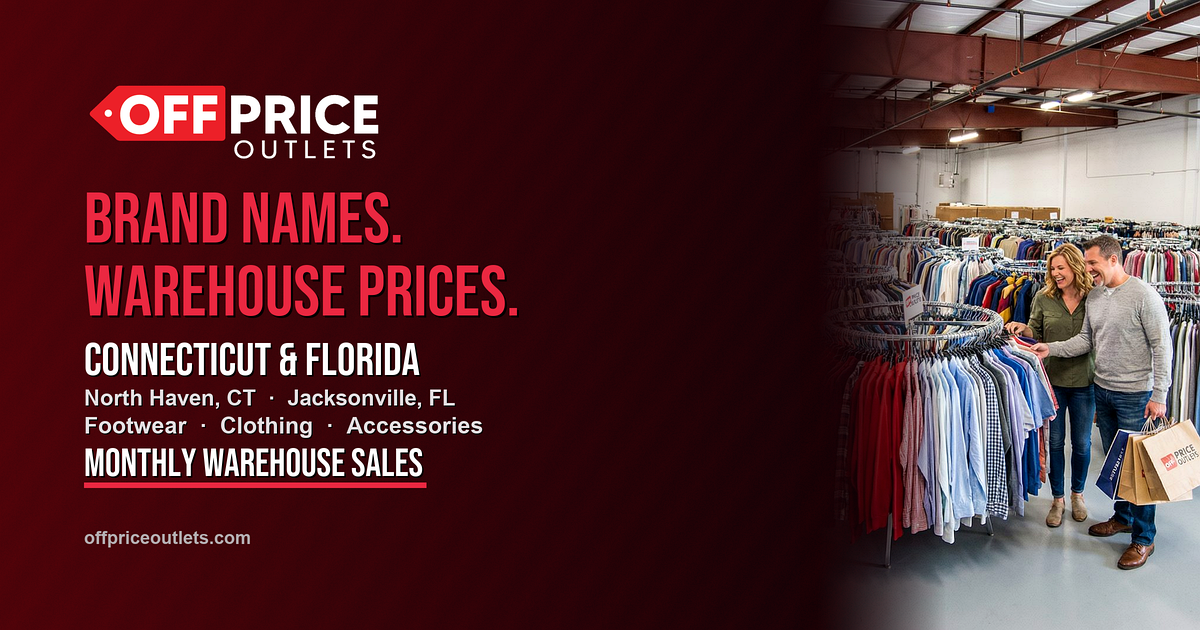
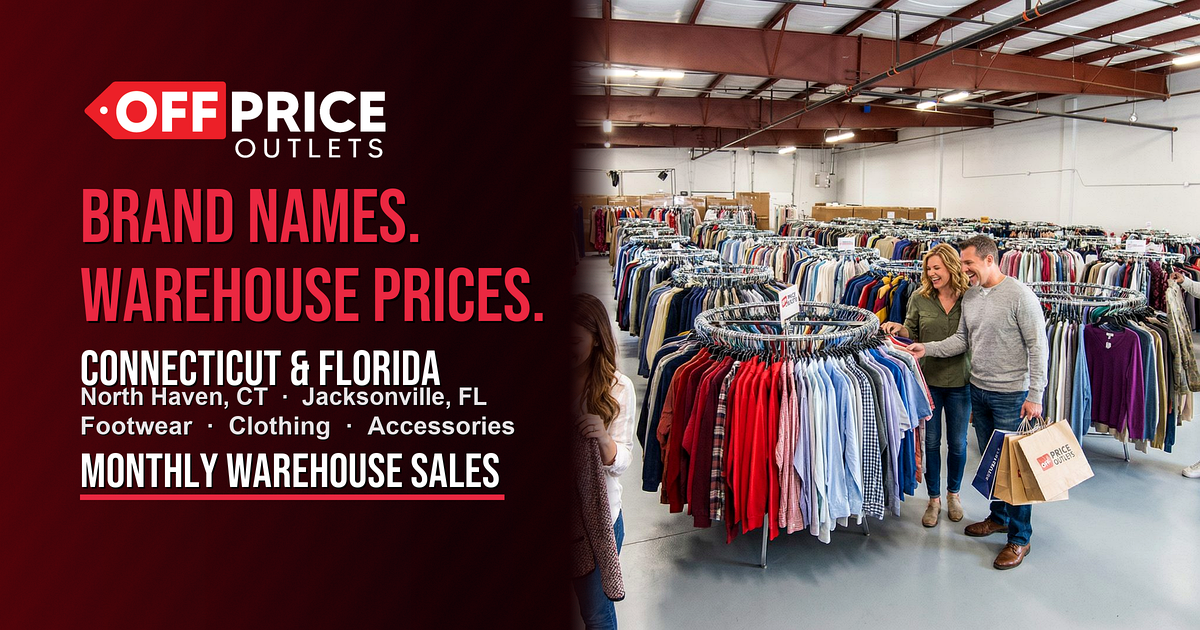
Tighten OG fade to text edge and enlarge bottom CTA line.
Drop URL from artwork, narrow feather, ~53% clear photo, cache v84.

diff --git a/index.html b/index.html
@@ -21,8 +21,8 @@
     <meta property="og:url" content="https://offpriceoutlets.com/">
     <meta property="og:title" content="Off Price Outlets | Connecticut &amp; Florida Monthly Warehouse Sales">
     <meta property="og:description" content="Two locations: North Haven, CT and Jacksonville, FL. FL grand opening Oct 10–11 · 10 AM–4 PM. Brand-name clothing, footwear &amp; accessories at warehouse prices.">
-    <meta property="og:image" content="https://offpriceoutlets.com/images/og-image.jpg?v=83">
-    <meta property="og:image:secure_url" content="https://offpriceoutlets.com/images/og-image.jpg?v=83">
+    <meta property="og:image" content="https://offpriceoutlets.com/images/og-image.jpg?v=84">
+    <meta property="og:image:secure_url" content="https://offpriceoutlets.com/images/og-image.jpg?v=84">
     <meta property="og:image:type" content="image/jpeg">
     <meta property="og:image:width" content="1200">
     <meta property="og:image:height" content="630">
@@ -32,7 +32,7 @@
     <meta name="twitter:card" content="summary_large_image">
     <meta name="twitter:title" content="Off Price Outlets | Connecticut &amp; Florida Monthly Warehouse Sales">
     <meta name="twitter:description" content="Two locations: North Haven, CT and Jacksonville, FL. FL grand opening Oct 10–11 · 10 AM–4 PM.">
-    <meta name="twitter:image" content="https://offpriceoutlets.com/images/og-image.jpg?v=83">
+    <meta name="twitter:image" content="https://offpriceoutlets.com/images/og-image.jpg?v=84">
 
     <link rel="icon" href="images/favicon.svg?v=68" type="image/svg+xml">
     <link rel="icon" href="images/favicon-32.png?v=68" type="image/png" sizes="32x32">
@@ -57,7 +57,7 @@
           "name": "Off Price Outlets",
           "url": "https://offpriceoutlets.com/",
           "logo": "https://offpriceoutlets.com/images/logo-official.png",
-          "image": "https://offpriceoutlets.com/images/og-image.jpg?v=83",
+          "image": "https://offpriceoutlets.com/images/og-image.jpg?v=84",
           "description": "Off Price Outlets hosts monthly warehouse sales with brand-name men's and women's clothing, footwear, and accessories at warehouse prices—often up to 90% off retail. Locations in North Haven, Connecticut and Jacksonville, Florida.",
           "sameAs": [
             "https://www.instagram.com/offpriceoutletsct/",
@@ -72,7 +72,7 @@
           "name": "Off Price Outlets — North Haven",
           "parentOrganization": { "@id": "https://offpriceoutlets.com/#organization" },
           "url": "https://offpriceoutlets.com/#locations",
-          "image": "https://offpriceoutlets.com/images/og-image.jpg?v=83",
+          "image": "https://offpriceoutlets.com/images/og-image.jpg?v=84",
           "description": "Monthly warehouse sales in North Haven, Connecticut on select dates—not every weekend. Brand-name clothing, footwear, and accessories at warehouse prices.",
           "address": {
             "@type": "PostalAddress",
@@ -96,7 +96,7 @@
           "name": "Off Price Outlets — Jacksonville",
           "parentOrganization": { "@id": "https://offpriceoutlets.com/#organization" },
           "url": "https://offpriceoutlets.com/#locations",
-          "image": "https://offpriceoutlets.com/images/og-image.jpg?v=83",
+          "image": "https://offpriceoutlets.com/images/og-image.jpg?v=84",
           "description": "Off Price Outlets Jacksonville, Florida. Grand opening warehouse sale October 10–11, 2026, 10 AM–4 PM. Brand-name clothing, footwear, and accessories.",
           "address": {
             "@type": "PostalAddress",
@@ -135,7 +135,7 @@
               "addressCountry": "US"
             }
           },
-          "image": "https://offpriceoutlets.com/images/og-image.jpg?v=83",
+          "image": "https://offpriceoutlets.com/images/og-image.jpg?v=84",
           "organizer": { "@id": "https://offpriceoutlets.com/#organization" },
           "offers": {
             "@type": "AggregateOffer",

diff --git a/scripts/generate-og-image.py b/scripts/generate-og-image.py
@@ -12,52 +12,14 @@ BEBAS = Path("/tmp/og-fonts/BebasNeue-Regular.ttf")
 BODY = Path("/System/Library/Fonts/Supplemental/Arial Bold.ttf")
 
 W, H = 2400, 1260
-SAFE = 168
-PHOTO_FRAC = 0.32
+SAFE = 160
+MIN_PHOTO_FRAC = 0.46
+FEATHER_PX = 96
 
 
 def main() -> None:
     if not BEBAS.is_file():
         raise SystemExit(f"Missing font: {BEBAS} (download Bebas Neue to /tmp/og-fonts/)")
-
-    text_right = int(W * (1 - PHOTO_FRAC) - 40)
-    photo_w = int(W * PHOTO_FRAC)
-
-    photo_src = Image.open(ROOT / "images/homepage.jpg").convert("RGB")
-    photo = ImageOps.fit(
-        photo_src, (photo_w, H), method=Image.Resampling.LANCZOS, centering=(0.58, 0.42)
-    )
-    photo = ImageEnhance.Contrast(
-        ImageEnhance.Color(ImageEnhance.Sharpness(photo).enhance(1.12)).enhance(1.05)
-    ).enhance(1.06)
-
-    base = Image.new("RGB", (W, H))
-    px = base.load()
-    rnd = random.Random(7)
-    for y in range(H):
-        for x in range(W):
-            t = x / W
-            r = int(22 + 55 * max(0, 1 - t * 1.4))
-            g = int(1 + 3 * (1 - t))
-            b = int(4 + 6 * (1 - t))
-            streak = int(18 * abs(((x + y * 0.7) % 90) / 90 - 0.5))
-            n = rnd.randint(-6, 6)
-            r = max(0, min(90, r + streak // 2 + n))
-            px[x, y] = (r, max(0, g), max(0, b))
-
-    canvas = base.convert("RGBA")
-    photo_rgba = photo.convert("RGBA")
-    feather = 260
-    mask = Image.new("L", (photo_w, H), 255)
-    md = ImageDraw.Draw(mask)
-    for i in range(feather):
-        md.line([(i, 0), (i, H)], fill=int(255 * (i / feather) ** 1.15))
-    dark = Image.new("RGBA", (photo_w, H), (0, 0, 0, 0))
-    dd = ImageDraw.Draw(dark)
-    for i in range(feather):
-        dd.line([(i, 0), (i, H)], fill=(0, 0, 0, int(130 * (1 - i / feather))))
-    photo_rgba = Image.alpha_composite(photo_rgba, dark)
-    canvas.paste(photo_rgba, (W - photo_w, 0), mask)
 
     logo = Image.open(ROOT / "images/logo-official-white.png").convert("RGBA")
     lp = logo.load()
@@ -66,72 +28,124 @@ def main() -> None:
             r, g, b, a = lp[xx, yy]
             if r < 40 and g < 40 and b < 40:
                 lp[xx, yy] = (0, 0, 0, 0)
-    pad = 16
+    pad = 12
     logo_p = Image.new("RGBA", (logo.width + pad * 2, logo.height + pad * 2), (0, 0, 0, 0))
     logo_p.paste(logo, (pad, pad), logo)
-    logo_w = 600
+    logo_w = 620
     logo_r = logo_p.resize(
         (logo_w, int(logo_p.height * logo_w / logo_p.width)), Image.Resampling.LANCZOS
     )
-    canvas.alpha_composite(logo_r, (SAFE, SAFE - 8))
+
+    meas = ImageDraw.Draw(Image.new("RGB", (W, H)))
+    x = SAFE
+
+    def tw(text: str, font) -> int:
+        bb = meas.textbbox((0, 0), text, font=font)
+        return bb[2] - bb[0]
+
+    def th(font) -> int:
+        bb = meas.textbbox((0, 0), "Ag", font=font)
+        return bb[3] - bb[1]
+
+    hero_size = 152
+    f_hero = ImageFont.truetype(str(BEBAS), hero_size)
+    max_panel = int(W * (1 - MIN_PHOTO_FRAC)) - 24
+    while tw("Warehouse prices.", f_hero) > max_panel - x and hero_size > 118:
+        hero_size -= 2
+        f_hero = ImageFont.truetype(str(BEBAS), hero_size)
+
+    f_loc = ImageFont.truetype(str(BEBAS), 98)
+    if tw("Connecticut & Florida", f_loc) > max_panel - x:
+        f_loc = ImageFont.truetype(str(BEBAS), 90)
+
+    f_cities = ImageFont.truetype(str(BODY), 48)
+    f_cat = ImageFont.truetype(str(BODY), 50)
+    f_cta = ImageFont.truetype(str(BEBAS), 96)
+    cta = "Monthly warehouse sales"
+
+    y = SAFE + logo_r.height + 16
+    blocks: list[tuple[str, object, int, int]] = []
+    blocks.append(("Brand names.", f_hero, 4, hero_size + 6))
+    blocks.append(("Warehouse prices.", f_hero, 4, hero_size + 24))
+    blocks.append(("Connecticut & Florida", f_loc, 3, th(f_loc) + 14))
+    blocks.append(("North Haven, CT  ·  Jacksonville, FL", f_cities, 2, th(f_cities) + 12))
+    blocks.append(("Footwear  ·  Clothing  ·  Accessories", f_cat, 2, th(f_cat) + 18))
+    blocks.append((cta, f_cta, 3, th(f_cta) + 28))
+
+    max_text_x = x + logo_w
+    for text, font, _shadow, advance in blocks:
+        bb = meas.textbbox((x, y), text, font=font)
+        max_text_x = max(max_text_x, bb[2] + 8)
+        y += advance
+
+    split_x = max_text_x + 36
+    min_photo_w = int(W * MIN_PHOTO_FRAC)
+    if W - split_x < min_photo_w:
+        split_x = W - min_photo_w
+
+    photo_w = W - split_x
+    print(f"split_x={split_x} photo_w={photo_w} feather={FEATHER_PX}")
+
+    photo_src = Image.open(ROOT / "images/homepage.jpg").convert("RGB")
+    photo = ImageOps.fit(
+        photo_src, (photo_w, H), method=Image.Resampling.LANCZOS, centering=(0.62, 0.42)
+    )
+    photo = ImageEnhance.Contrast(
+        ImageEnhance.Color(ImageEnhance.Sharpness(photo).enhance(1.1)).enhance(1.04)
+    ).enhance(1.05)
+
+    base = Image.new("RGB", (W, H))
+    px = base.load()
+    rnd = random.Random(7)
+    for py in range(H):
+        for px_x in range(W):
+            t = min(1.0, px_x / max(split_x + FEATHER_PX, 1))
+            r = int(22 + 55 * max(0, 1 - t * 1.35))
+            g = int(1 + 3 * (1 - t))
+            b = int(4 + 6 * (1 - t))
+            streak = int(18 * abs(((px_x + py * 0.7) % 90) / 90 - 0.5))
+            n = rnd.randint(-6, 6)
+            r = max(0, min(90, r + streak // 2 + n))
+            px[px_x, py] = (r, max(0, g), max(0, b))
+
+    canvas = base.convert("RGBA")
+
+    photo_rgba = photo.convert("RGBA")
+    mask = Image.new("L", (photo_w, H), 255)
+    md = ImageDraw.Draw(mask)
+    for i in range(FEATHER_PX):
+        md.line([(i, 0), (i, H)], fill=int(255 * (i / FEATHER_PX) ** 1.35))
+    canvas.paste(photo_rgba, (split_x, 0), mask)
+
+    canvas.alpha_composite(logo_r, (SAFE, SAFE - 6))
 
     draw = ImageDraw.Draw(canvas)
     red = (235, 40, 65, 255)
     white = (255, 255, 255, 255)
-    dim = (228, 224, 226, 255)
+    dim = (232, 228, 230, 255)
 
     def put(pos, text, font, fill, o=4):
-        draw.text((pos[0] + o, pos[1] + o), text, font=font, fill=(0, 0, 0, 165))
+        draw.text((pos[0] + o, pos[1] + o), text, font=font, fill=(0, 0, 0, 150))
         draw.text(pos, text, font=font, fill=fill)
 
-    def tw(text, font):
-        bb = draw.textbbox((0, 0), text, font=font)
-        return bb[2] - bb[0]
-
-    x = SAFE
-    y = SAFE + logo_r.height + 20
-
-    hero_size = 142
-    f_hero = ImageFont.truetype(str(BEBAS), hero_size)
-    while tw("Warehouse prices.", f_hero) > text_right - x and hero_size > 108:
-        hero_size -= 4
-        f_hero = ImageFont.truetype(str(BEBAS), hero_size)
-
-    put((x, y), "Brand names.", f_hero, red)
-    y += hero_size + 4
-    put((x, y), "Warehouse prices.", f_hero, red)
-    y += hero_size + 22
-
-    f_loc = ImageFont.truetype(str(BEBAS), 92)
-    if tw("Connecticut & Florida", f_loc) > text_right - x:
-        f_loc = ImageFont.truetype(str(BEBAS), 84)
-    loc_h = 92 if f_loc.size == 92 else 84
-    put((x, y), "Connecticut & Florida", f_loc, white, o=3)
-    y += loc_h + 12
-
-    f_cities = ImageFont.truetype(str(BODY), 44)
-    put((x, y), "North Haven, CT  ·  Jacksonville, FL", f_cities, dim, o=2)
-    y += 54
-
-    f_cat = ImageFont.truetype(str(BODY), 46)
-    put((x, y), "Footwear  ·  Clothing  ·  Accessories", f_cat, dim, o=2)
-    y += 56
-
-    f_cta = ImageFont.truetype(str(BEBAS), 78)
-    cta = "Monthly warehouse sales"
-    put((x, y), cta, f_cta, white, o=3)
-    bb = draw.textbbox((x, y), cta, font=f_cta)
-    draw.rectangle([x, bb[3] + 12, min(bb[2] + 6, text_right), bb[3] + 22], fill=red)
-
-    f_url = ImageFont.truetype(str(BODY), 36)
-    url = "offpriceoutlets.com"
-    ub = draw.textbbox((0, 0), url, font=f_url)
-    draw.text((x, H - SAFE - (ub[3] - ub[1]) - 4), url, font=f_url, fill=(180, 175, 178, 255))
+    y = SAFE + logo_r.height + 16
+    for text, font, shadow, advance in blocks:
+        fill = red if text.startswith("Brand") or text.startswith("Warehouse") else white
+        if text in ("North Haven, CT  ·  Jacksonville, FL", "Footwear  ·  Clothing  ·  Accessories"):
+            fill = dim
+        put((x, y), text, font, fill, o=shadow)
+        if text == cta:
+            bb = draw.textbbox((x, y), text, font=font)
+            draw.rectangle([x, bb[3] + 14, bb[2] + 8, bb[3] + 24], fill=red)
+        y += advance
 
     out2x = canvas.convert("RGB")
-    out = ImageEnhance.Sharpness(out2x.resize((1200, 630), Image.Resampling.LANCZOS)).enhance(1.25)
+    out = ImageEnhance.Sharpness(out2x.resize((1200, 630), Image.Resampling.LANCZOS)).enhance(1.22)
     out.save(ROOT / "images/og-image.jpg", "JPEG", quality=97, optimize=True, progressive=True, subsampling=0)
     out.save(ROOT / "images/og-image.png", "PNG", optimize=True)
+    out.resize((390, 204), Image.Resampling.LANCZOS).save(
+        ROOT / "images/og-preview-phone.jpg", "JPEG", quality=92
+    )
     print("Wrote", ROOT / "images/og-image.jpg", "hero px", hero_size)
 
 
